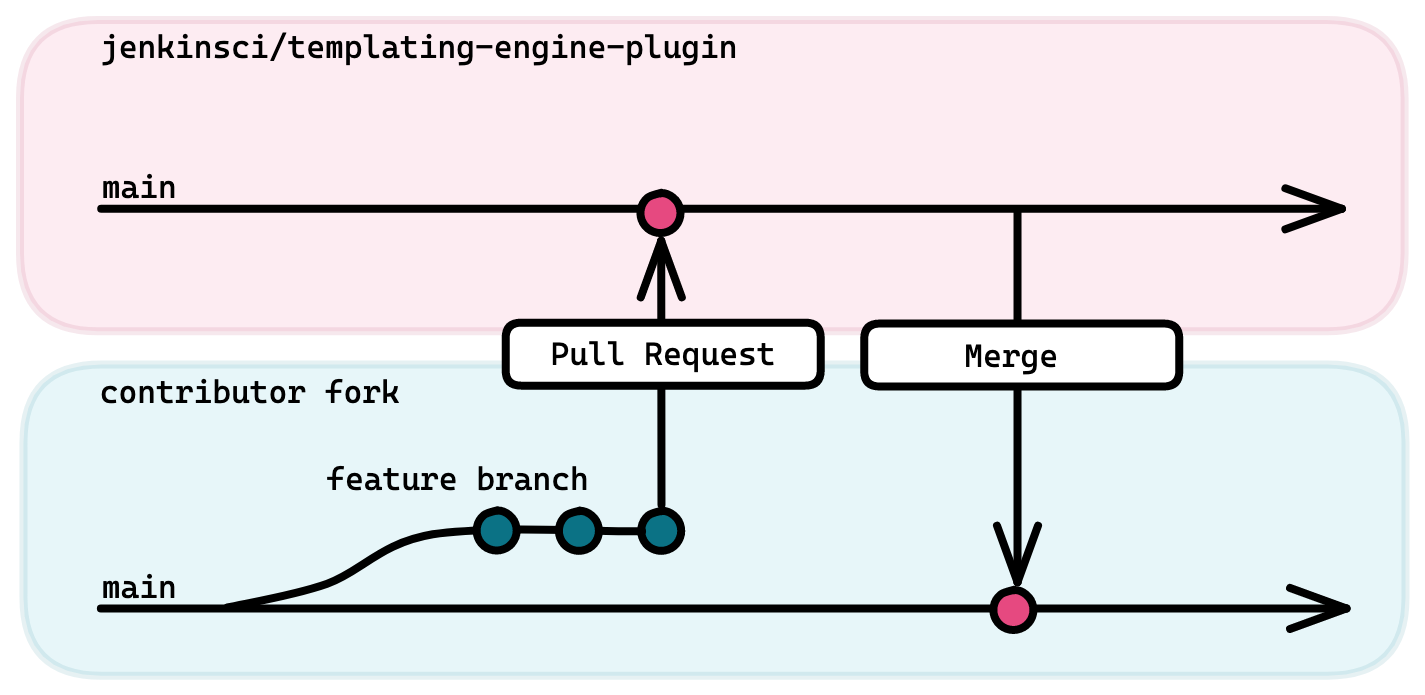
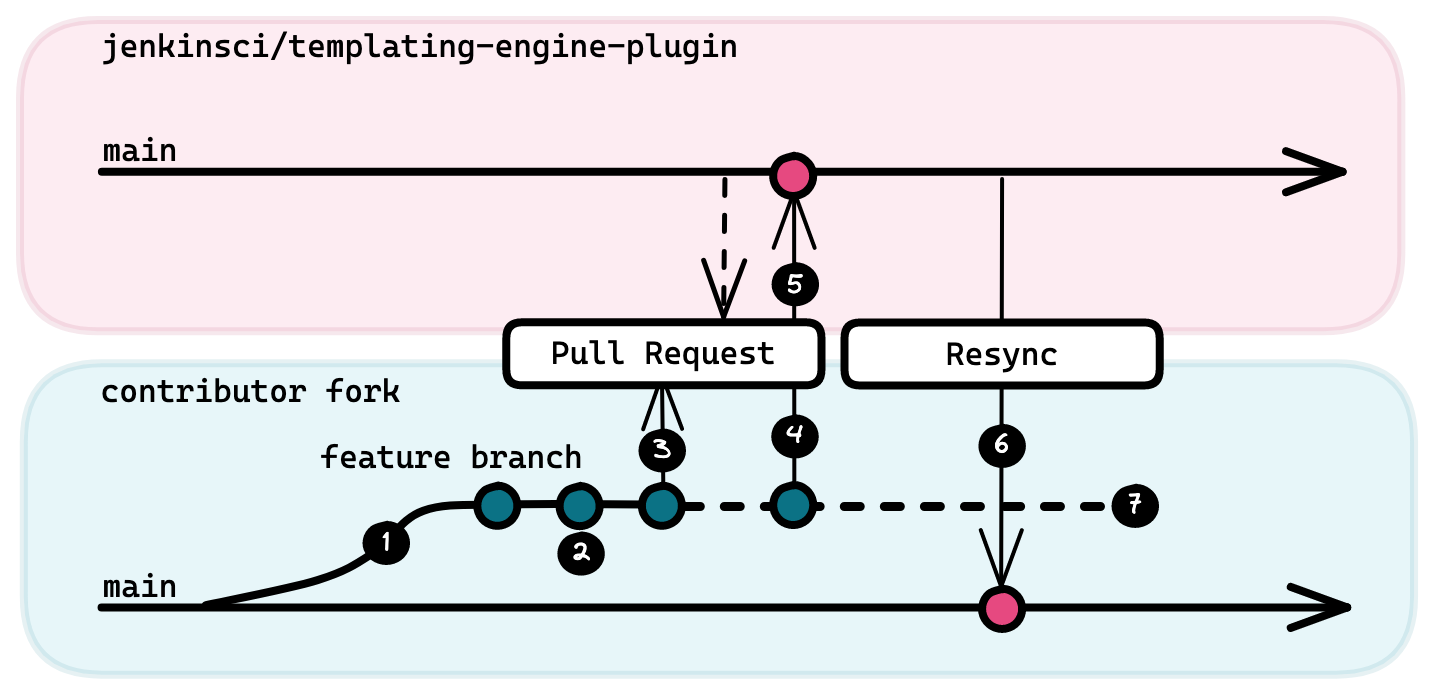
update fork and pull docs

diff --git a/docs/contributing/fork-based.md b/docs/contributing/fork-based.md
@@ -4,7 +4,7 @@
 ---
 # Fork-Based Contribution Model
 
-JTE follows a fork-based contribution mode, also called a [Fork and Pull Model][1].
+JTE follows a fork-based contribution model, also called a [Fork and Pull Model][1].
 
 Contributors work in their own [Forks][2] on Feature Branches and send changes through [Pull Requests][3] to the [main branch of the upstream JTE repository][4].
 
@@ -20,17 +20,19 @@ git remote add upstream https://github.com/jenkinsci/templating-engine-plugin.gi
 
 ## Contribution Workflow
 
+After creating your fork and adding the upstream remote, use the following workflow to submit changes to JTE:
+
 ![An overview visualization of the Contribution Workflow described below](./contribution-workflow.png){ class=center width=75%}
 
-|            Step            | Description                                                           | Git Commands <img width=200/>                                                                   |
-|:--------------------------:|-----------------------------------------------------------------------|-------------------------------------------------------------------------------------------------|
-|  Create a Feature Branch   | Create a branch specifically for your change                          | `git checkout -B <branch_name>`<br>`git push --set-upstream origin <branch_name>`               |
-|        Push Changes        | Push incremental changes to your feature branch                       | `git add <files>`<br>`git commit -m <message>`<br>`git push origin <branch_name>`               |
-|   Submit a Pull Request    | Open a Pull Request to the `main` branch of the JTE repository        | Done via the GitHub web interface                                                               |
-|    Incorporate Feedback    | The JTE maintainers may provide some feedback.                        | `git add <files>`<br>`git commit -m <message>`<br>`git push origin <branch_name>`               |
-|           Merge            | Once accepted, JTE maintainers will merge the PR                      | no action on contributor's part                                                                 |
-| Resynchronize with `main`  | The merge will squash the commits, so realign your fork with upstream | `git checkout main`<br>`git fetch --all`<br>`git merge upstream/main`<br>`git push origin main` |
-| Delete your Feature Branch | Your feature branch can now be removed                                | `git branch -d <branch_name>`<br>`git push origin --delete <branch_name>`                       |
+|   |            Step             | Description                                                           | Git Commands <img width=200/>                                                                   |
+|---|:---------------------------:|-----------------------------------------------------------------------|-------------------------------------------------------------------------------------------------|
+| 1 |   Create a Feature Branch   | Create a branch specifically for your change                          | `git checkout -B <branch_name>`<br>`git push --set-upstream origin <branch_name>`               |
+| 2 |        Push Changes         | Push incremental changes to your feature branch                       | `git add <files>`<br>`git commit -m <message>`<br>`git push origin <branch_name>`               |
+| 3 |    Submit a Pull Request    | Open a Pull Request to the `main` branch of the JTE repository        | Done via the GitHub web interface                                                               |
+| 4 |    Incorporate Feedback     | The JTE maintainers may provide some feedback.                        | `git add <files>`<br>`git commit -m <message>`<br>`git push origin <branch_name>`               |
+| 5 |            Merge            | Once accepted, JTE maintainers will merge the PR                      | no action on contributor's part                                                                 |
+| 6 | Resynchronize with upstream | The merge will squash the commits, so realign your fork with upstream | `git checkout main`<br>`git fetch --all`<br>`git merge upstream/main`<br>`git push origin main` |
+| 7 | Delete your Feature Branch  | Your feature branch can now be removed                                | `git branch -d <branch_name>`<br>`git push origin --delete <branch_name>`                       |
 
 [1]: https://docs.github.com/en/github/collaborating-with-pull-requests/getting-started/about-collaborative-development-models#fork-and-pull-model
 [2]: https://docs.github.com/en/github/collaborating-with-pull-requests/working-with-forks/about-forks
